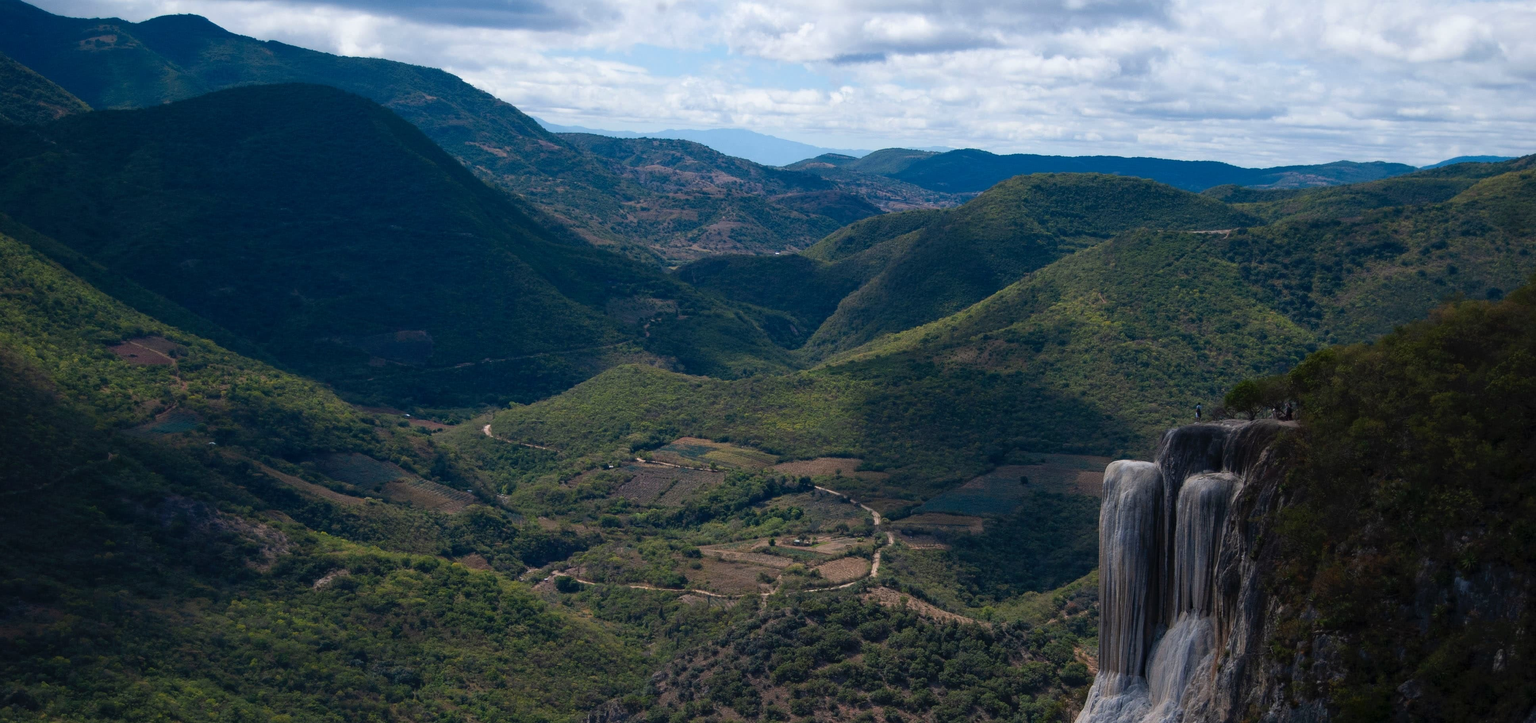
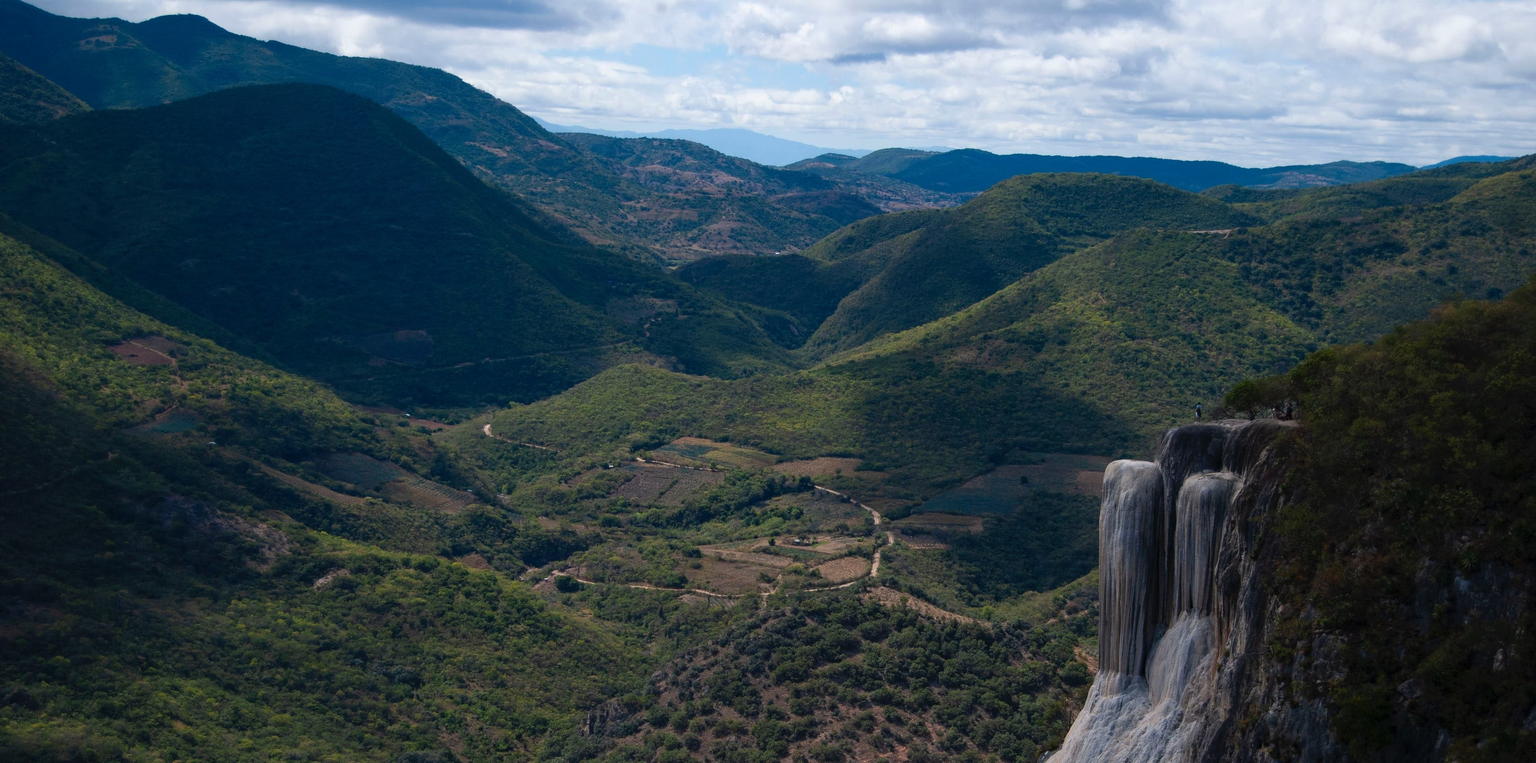
coming trips section and cards style

diff --git a/src/components/UpcomingTrips.vue b/src/components/UpcomingTrips.vue
@@ -1,38 +1,130 @@
+<script setup>
+import { db } from '../services/firebase/index'
+import { collection, getDocs, query } from "firebase/firestore"
+import { ref, onMounted } from 'vue'
+
+const travels = ref([])
+
+onMounted( async () => {
+  const querySnapshot = await getDocs(collection(db, "travels"))
+  let firebase_Travels = []
+  querySnapshot.forEach((doc) => {
+    console.log(doc.id, " => ", doc.data())
+    const travel = {
+      id: doc.id,
+      title: doc.data().title,
+      location: doc.data().location,
+      description: doc.data().description,
+      banner_image: doc.data().banner_image
+    }
+    firebase_Travels.push(travel)
+  })
+  travels.value = firebase_Travels
+})
+</script>
+
 <template>
   <section class="upcoming-trips">
-    <h3>Proximos viajes</h3>
-    <p>
-      Lorem ipsum dolor sit amet, consectetur adipiscing elit. Sed convallis
-      hendrerit orci quis vehicula. Sed fermentum, ex non pulvinar commodo,
-      justo metus lacinia velit, sit amet pharetra ante mi nec lectus. Morbi eu
-      lectus velit. Morbi in nunc vitae turpis ultricies aliquet. Donec quis
-      pellentesque elit. Vestibulum condimentum nisi euismod mi pharetra, eu
-      volutpat tellus accumsan. Pellentesque bibendum faucibus malesuada. Cras
-      maximus elit eu felis vehicula varius. Quisque imperdiet, ipsum id sodales
-      venenatis, odio ipsum maximus nunc, nec vehicula eros eros quis dolor.
-      Nulla convallis interdum augue. Fusce massa tellus, lobortis eu rutrum
-      vitae, accumsan vel risus. Nam venenatis egestas nunc sit amet auctor.
-      Nullam at mattis leo, eu blandit nisl. Sed volutpat nunc sit amet diam
-      accumsan ultricies. Fusce a lorem consequat, tincidunt orci non, mattis
-      metus. Praesent sit amet sem dui. Duis aliquam congue turpis sit amet
-      dignissim. Mauris eget eros at ligula feugiat blandit vitae non est.
-      Phasellus non est lacinia, pulvinar sapien quis, laoreet neque. Aenean sit
-      amet enim dolor. Nullam a pulvinar quam, quis lobortis risus. Maecenas ac
-      ex ultrices, malesuada urna sed, rutrum dolor. Sed bibendum lectus nunc.
-      Praesent mattis dui neque, a fermentum nibh blandit id. Duis fringilla
-      quam ut tristique consectetur
-    </p>
+    <div class="container">
+      <h3>Proximos viajes</h3>
+      <p>
+        A continuación podrás ver algunos de los viajes que estamos planeando y organizando.
+      </p>
+
+      <div class="upcards-grid container">
+        <div class="upcard" v-for="trip in travels" :key="trip.id">
+          <img :src="trip.banner_image" alt="Banner image">
+          <div class="upcard-info">
+            <h1>{{ trip.title }}</h1>
+            <span>📍{{ trip.location }}</span>
+            <p>{{ trip.description }}</p>
+            <a id="to_trip_button" href="#">Me interesa</a>
+          </div>
+        </div>
+      </div>
+    </div>
   </section>
 </template>
 
-<script>
-</script>
-
 <style lang="scss" scoped>
+@import "../styles/variables";
+h1,h2,h3,p, span {
+  margin: 0;
+}
 .upcoming-trips {
-  background-color: red;
+  background-color: $gray;
+  padding: 8rem 0;
   h3 {
-    margin: 0;
+    font-family: $montserrat;
+    text-align: center;
+    color: $sea-deep;
+    margin-bottom: 2rem;
+    font-size: 2.8rem;
+  }
+  p {
+    text-align: center;
+    font-family: $normal-text;
+    font-size: 1.5rem;
+    color: $sea-deep;
+    margin-bottom: 4rem;
+  }
+
+  .upcards-grid {
+    display: flex;
+    gap: 2rem;
+    align-items: center;
+    justify-content: center;
+    .upcard {
+      // box-shadow: rgba(0, 0, 0, 0.15) 2.4px 2.4px 3.2px;
+      box-shadow: rgba(0, 0, 0, 0.08) 0px 4px 12px;
+      border-radius: 10px;
+      width: 20rem;
+      height: 35rem;
+      img {
+        border-radius: 10px 10px 0 0;
+        width: 20rem;
+        height: 10rem;
+      }
+      .upcard-info {
+        padding: 1rem;
+        h1 {
+          color: $sea-deep;
+          font-family: $normal-text;
+          font-size: 2rem;
+        }
+        span {
+          color: #bfbfbf;
+          font-size: 1rem;
+          font-family: $normal-text;
+          i {
+            margin-right: .5rem;
+            font-size: .8rem;
+          }
+        }
+        p {
+          margin-top: 1.5rem;
+          font-size: 1rem;
+          text-align: left;
+          margin-bottom: 2.5rem;
+        }
+        #to_trip_button {
+          border-radius: 10px;
+          text-decoration: none;
+          color: $white;
+          background-color: $deep-blue;
+          padding: 1.5rem 1rem;
+          font-size: 1rem;
+          transition: .5s;
+          font-family: $normal-text;
+          &:hover {
+            font-size: 1.05rem;
+            padding: 1rem 1.5rem;
+            transition: .5s;
+          }
+        }
+      }
+      
+    }
   }
 }
 </style>

diff --git a/src/components/Mainv2.vue b/src/components/Mainv2.vue
@@ -2,6 +2,7 @@
   <div class="mainv2">
     <Header />
     <Main />
+    <img id="background-img" src="/mountains-1-crop.jpg" alt="">
   </div>
 </template>
 
@@ -12,10 +13,14 @@ import Header from "./Header.vue";
 
 <style lang="scss" scoped>
 .mainv2 {
-  background-image: url("public/mountains-1-crop.jpg");
-  background-repeat: no-repeat;
-  background-position: top;
-  background-size: cover;
-  height: 100vh;
+  margin-bottom: 7.2rem;
+  #background-img {
+    width: 100%;
+    height: 100vh;
+    z-index: -1;
+    position: absolute;
+    top: 0;
+    filter: brightness(.75);
+  }
 }
 </style>

diff --git a/index.html b/index.html
@@ -10,6 +10,7 @@
   <link href="https://fonts.googleapis.com/css2?family=Hanken+Grotesk:wght@300;400;500;700;900&display=swap"
     rel="stylesheet">
     <link href="https://fonts.googleapis.com/css2?family=Montserrat:wght@400;500;600;700;900&display=swap" rel="stylesheet"> 
+    <link rel="stylesheet" href="https://cdnjs.cloudflare.com/ajax/libs/font-awesome/6.2.1/css/all.min.css" integrity="sha512-MV7K8+y+gLIBoVD59lQIYicR65iaqukzvf/nwasF0nqhPay5w/9lJmVM2hMDcnK1OnMGCdVK+iQrJ7lzPJQd1w==" crossorigin="anonymous" referrerpolicy="no-referrer" />
   <title>Viajes Bernal</title>
 </head>
 

diff --git a/src/style.css b/src/style.css
@@ -11,6 +11,10 @@ body {
   height: 100vh;
 }
 
+html {
+  scroll-behavior: smooth;
+}
+
 .container {
   width: 82%;
   margin: 0 auto;

diff --git a/src/styles/_variables.scss b/src/styles/_variables.scss
@@ -10,3 +10,4 @@ $deep-blue: #003268;
 $sea-light: #176b85;
 $white: #e4e9ed;
 $green: #003268;
+$gray: #f4f4f4;
